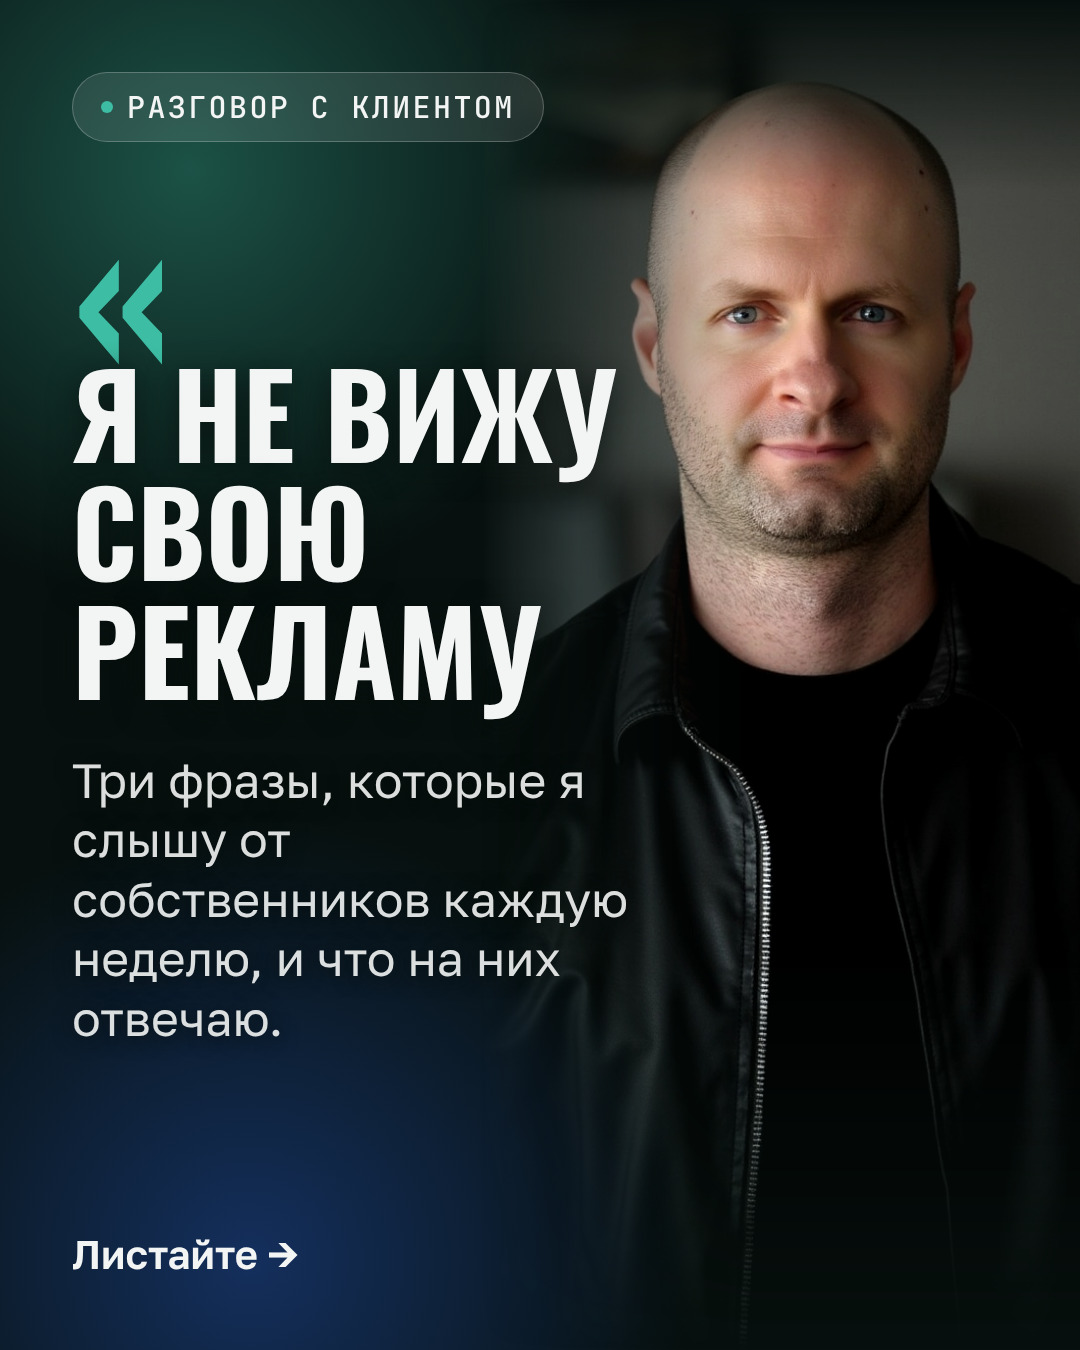
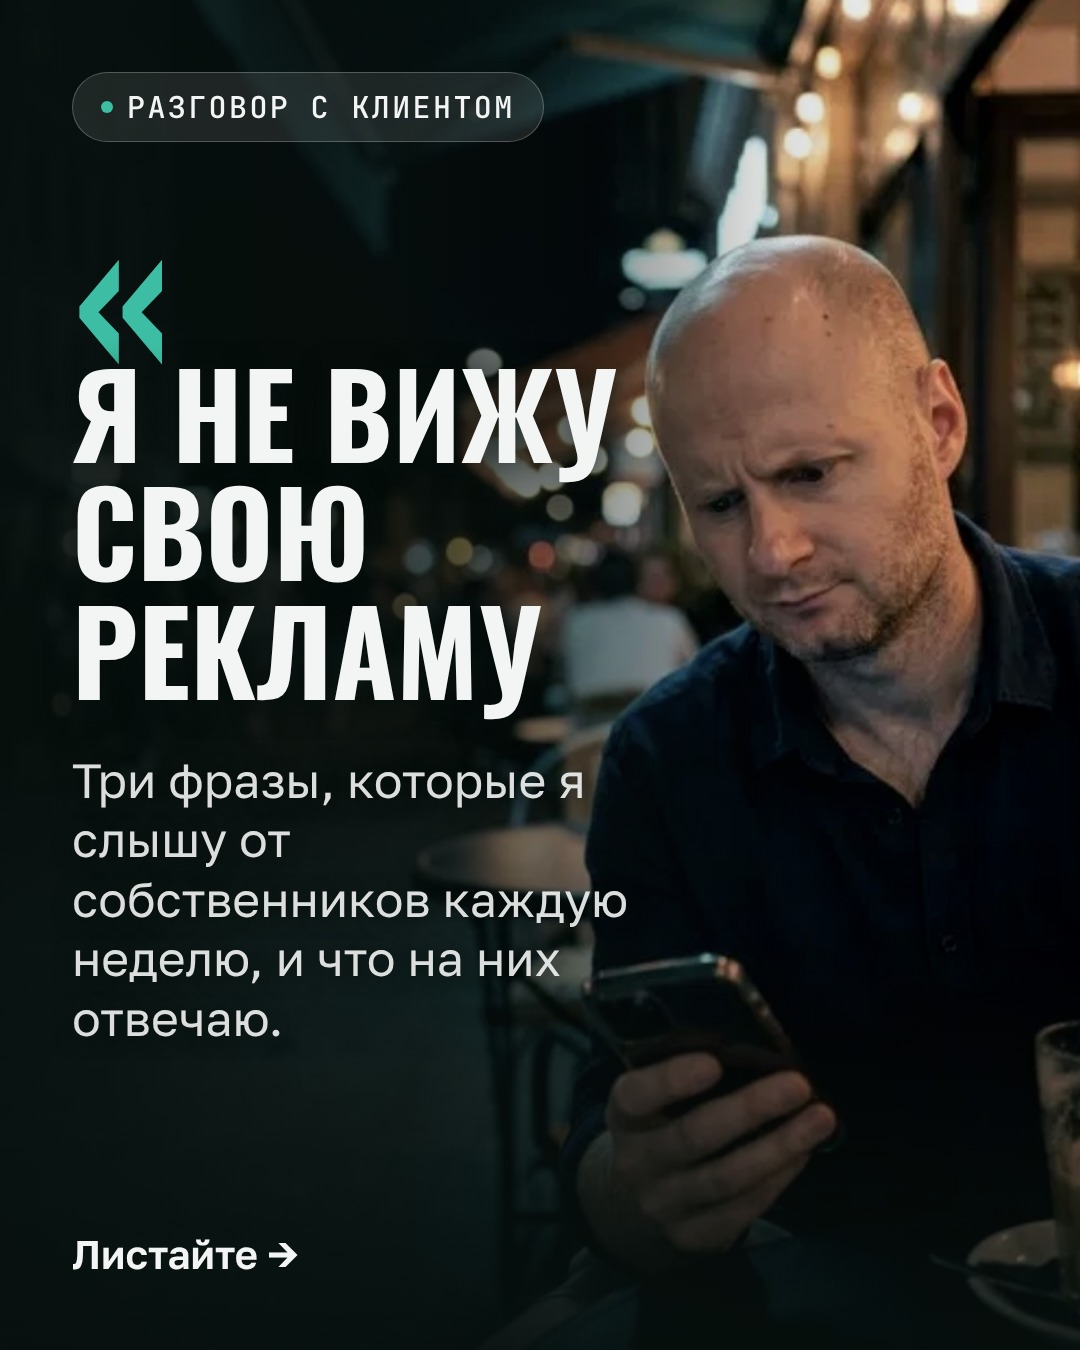
Карусель 04: новая обложка (Magnific, персонаж vlav), статус ready
Claude-Session: https://claude.ai/code/session_015ZopJ3CHHh4r3eQSk2mJXd

diff --git a/carousels/04-ne-vizhu-reklamu/src/build4.py b/carousels/04-ne-vizhu-reklamu/src/build4.py
@@ -24,12 +24,12 @@ def photo(src, style, mask):
 slides = {}
 
 # 01 Обложка: тёмная, фото справа
-P1 = photo("cover.jpg", "right:-60px;top:0;width:660px;height:1350px;object-position:50% 8%",
-           "linear-gradient(to right,transparent 0%,#000 42%),linear-gradient(to bottom,transparent 0%,#000 14%,#000 70%,transparent 100%)")
+P1 = ('<img src="img/cover.jpg" alt="" style="position:absolute;inset:0;width:1080px;height:1350px;object-fit:cover;object-position:62% 40%;filter:saturate(.9) contrast(1.05)">'
+      '<div style="position:absolute;inset:0;background:linear-gradient(90deg,rgba(7,16,14,.92) 0%,rgba(7,16,14,.78) 38%,rgba(7,16,14,.15) 70%,rgba(7,16,14,0) 100%),'
+      'linear-gradient(0deg,rgba(7,16,14,.85) 0%,rgba(7,16,14,0) 30%)"></div>')
 slides[1] = f"""<!doctype html><html lang="ru"><head><meta charset="utf-8"><style>{CSS4}</style></head><body>
 <div class="s dark">
- <div class="glow" style="top:-280px;left:-260px;width:900px;height:900px;background:radial-gradient(circle,rgba(61,189,163,.38) 0%,rgba(7,16,14,0) 68%)"></div>
- <div class="glow" style="bottom:-360px;left:-200px;width:900px;height:900px;background:radial-gradient(circle,rgba(45,108,246,.34) 0%,rgba(7,16,14,0) 70%)"></div>
+ <div class="glow" style="top:-280px;left:-260px;width:900px;height:900px;background:radial-gradient(circle,rgba(61,189,163,.22) 0%,rgba(7,16,14,0) 68%)"></div>
  {P1}
  <div class="in" style="gap:0">
   <div style="display:inline-flex;align-self:flex-start;align-items:center;gap:14px;background:rgba(243,245,244,.1);border:1px solid rgba(243,245,244,.25);border-radius:100px;padding:14px 28px">
